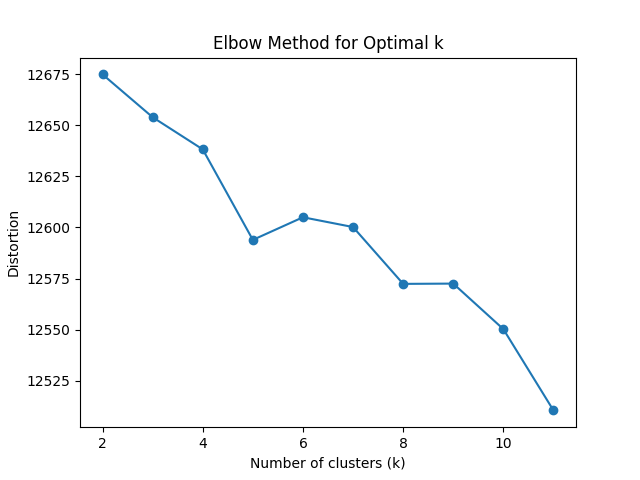
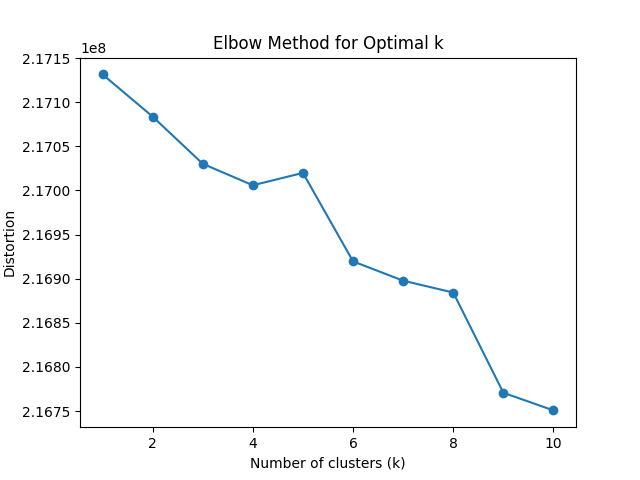
normalization -> clustering

diff --git a/k-mean_clustering.py b/k-mean_clustering.py
@@ -15,11 +15,11 @@ from sklearn.preprocessing import StandardScaler
 
 from tf_idf import MyTfidfVectorizer
 
-def process_kmeans(X, k):
-    print(k)
+def process_kmeans(X, k): 
     initial_centers = kmeans_plusplus_initializer(X.todense(), k).initialize()
     kmeans_instance = kmeans(X.todense(), initial_centers)
     kmeans_instance.process()
+    print(k)
     return kmeans_instance
 
 def calculate_distortion(X,k):
@@ -40,12 +40,16 @@ if __name__ == "__main__":
     vectorizer = MyTfidfVectorizer()
     X = vectorizer.fit_transform([' '.join(paper.keys()) for paper in important_words])
 
+    # Normalisze the data
+    scaler= StandardScaler(with_mean=False)
+    X=scaler.fit_transform(X)
+
     # K-means 클러스터링
     print('--- start K-means clustering ---')
     
     # Use multiprocessing to process kmean in parallel
     parallel_num = cpu_count()
-    k_list = range(2, parallel_num + 2)
+    k_list = range(1, 11,1)
     print('Processing K-means clustering...')
     with Pool(parallel_num) as pool:
         distortions = pool.starmap(calculate_distortion, zip(repeat(X), k_list))
@@ -91,7 +95,7 @@ if __name__ == "__main__":
         for i in range(num_clusters):
             cluster_points = [Y_3d[paper] for paper in kmeans_clusters[i]]
             cluster_points = np.array(cluster_points)
-            ax.scatter(cluster_points[:, 0], cluster_points[:, 1], cluster_points[:, 2], label=f"K-means Cluster {i + 2}")
+            ax.scatter(cluster_points[:, 0], cluster_points[:, 1], cluster_points[:, 2], label=f"K-means Cluster {i + 1}")
 
         ax.set_title(f'3D K-means Clustering (View {idx})')
         ax.set_xlabel('Dimension 1')
